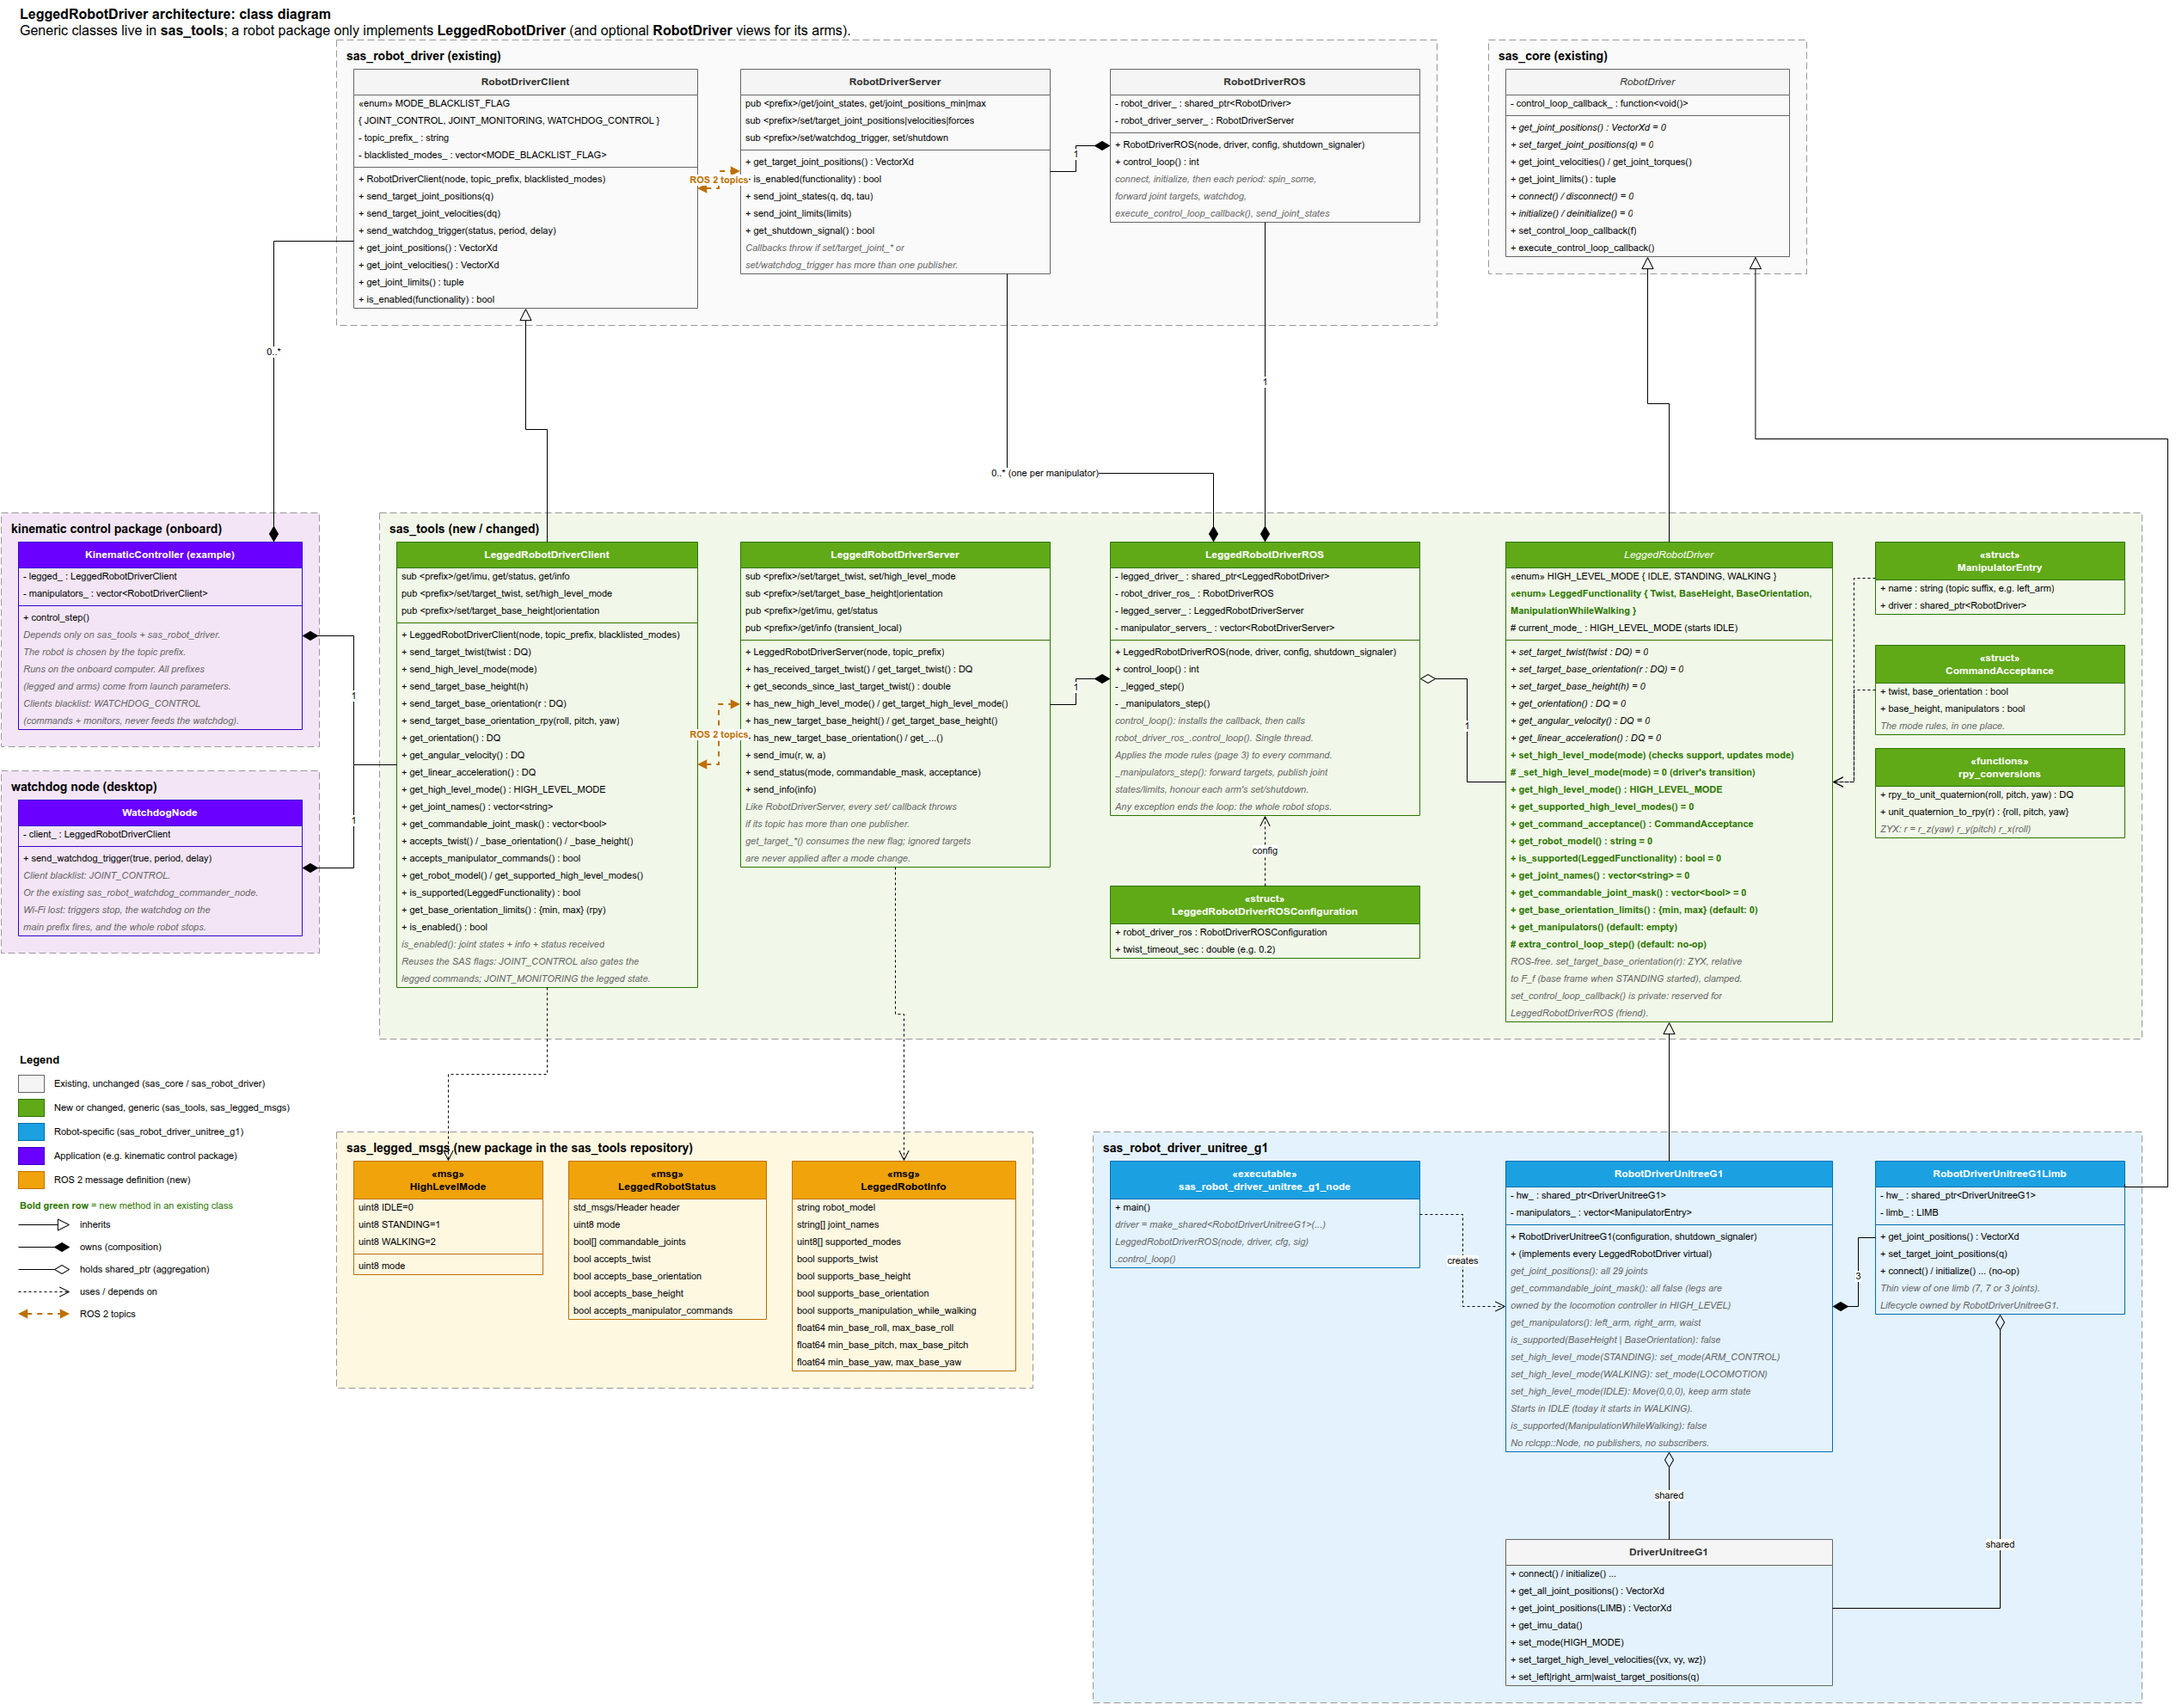
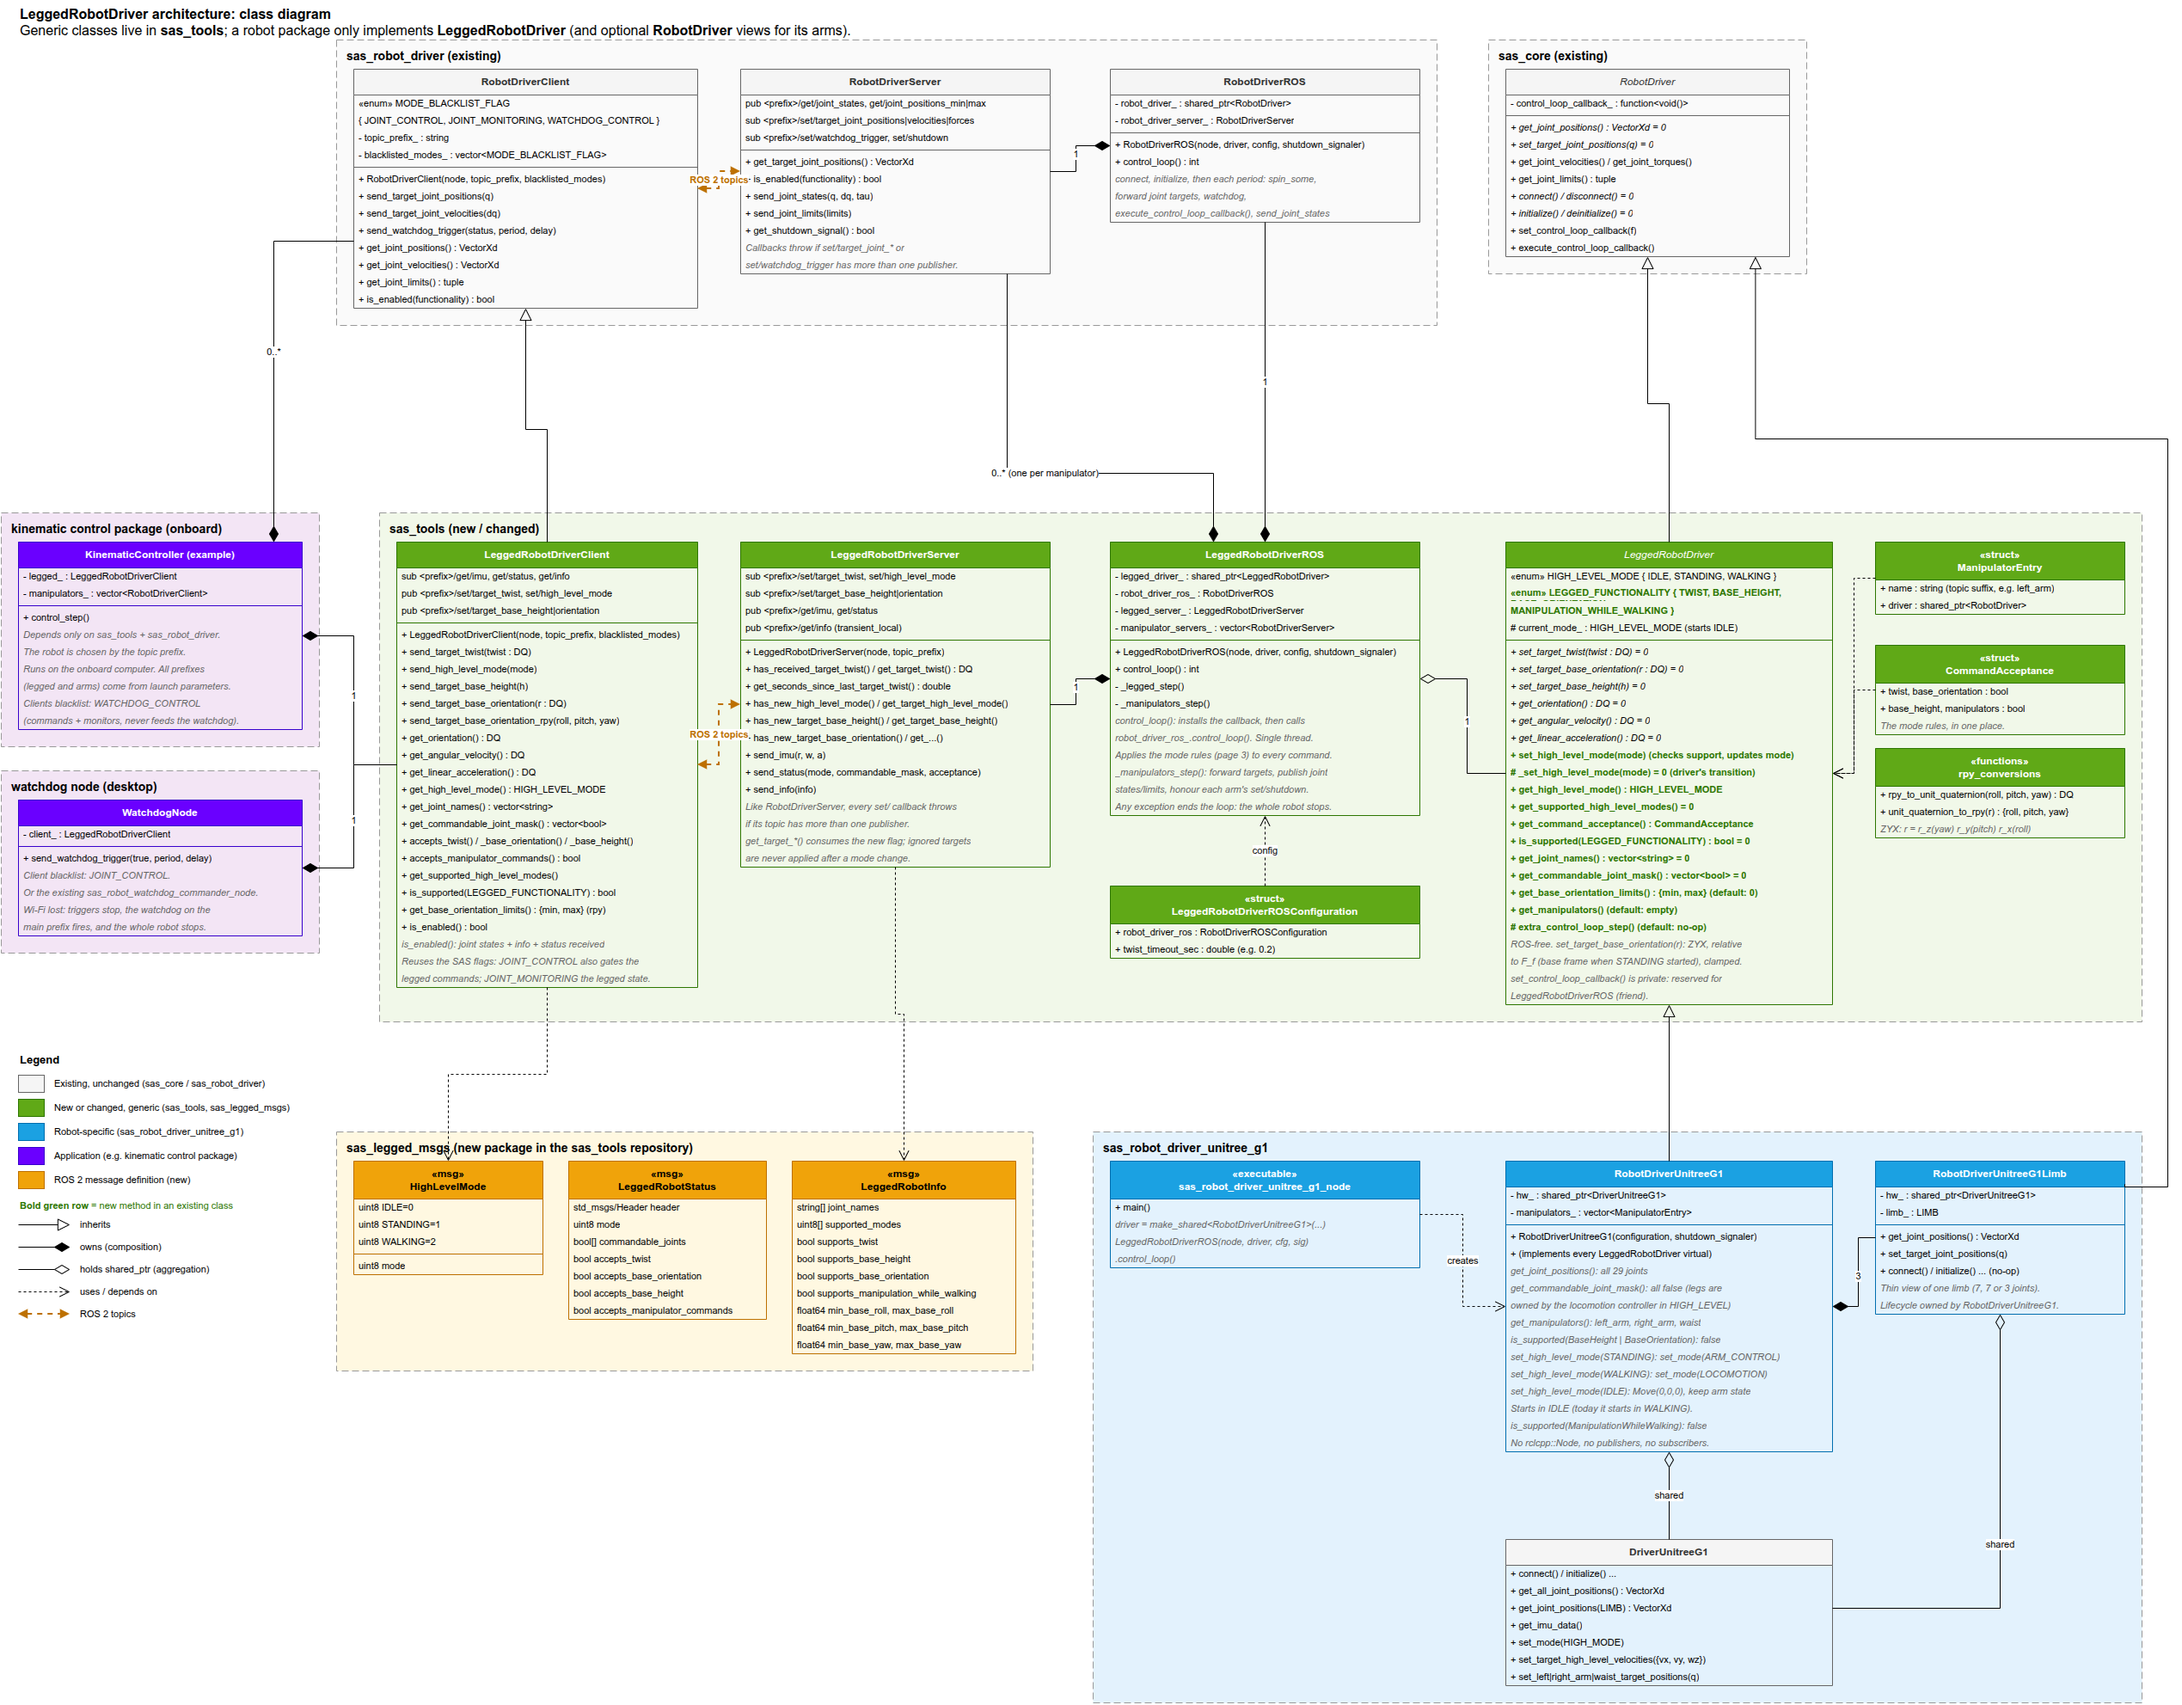
Updated the enum class style

diff --git a/sas_tools/include/sas_tools/LeggedRobotDriver.hpp b/sas_tools/include/sas_tools/LeggedRobotDriver.hpp
@@ -28,7 +28,7 @@ class LeggedRobotDriverROS;
  *   - STANDING: the arms, the base orientation and the base height can be commanded; the
  *     robot cannot walk.
  *   - WALKING: the twist and the base height are accepted; the base orientation is not.
- *     The arms are accepted only if is_supported(LeggedFunctionality::ManipulationWhileWalking).
+ *     The arms are accepted only if is_supported(LEGGED_FUNCTIONALITY::MANIPULATION_WHILE_WALKING).
  *
  * The driver starts in IDLE.
  */
@@ -47,11 +47,11 @@ public:
     /**
      * @brief Enumeration of the optional legged robot functionalities.
      */
-    enum class LeggedFunctionality{
-        Twist=0,
-        BaseHeight,
-        BaseOrientation,
-        ManipulationWhileWalking,
+    enum class LEGGED_FUNCTIONALITY{
+        TWIST=0,
+        BASE_HEIGHT,
+        BASE_ORIENTATION,
+        MANIPULATION_WHILE_WALKING,
     };
 
     /**
@@ -136,7 +136,7 @@ public:
      * @param r The unit quaternion r = r_z(yaw)*r_y(pitch)*r_x(roll) (ZYX roll-pitch-yaw angles),
      *        relative to the frame F_f. F_f is the base frame at the moment the robot entered
      *        STANDING, so r = 1 keeps the pose the robot had when STANDING started.
-     * @note Only called in STANDING, if is_supported(LeggedFunctionality::BaseOrientation), with the
+     * @note Only called in STANDING, if is_supported(LEGGED_FUNCTIONALITY::BASE_ORIENTATION), with the
      *       angles already clamped to get_base_orientation_limits().
      */
     virtual void set_target_base_orientation(const DQ& r) = 0;
@@ -144,7 +144,7 @@ public:
     /**
      * @brief set_target_base_height Sets the desired base height with respect to the ground.
      * @param base_height Target height in meters
-     * @note Only called in STANDING and WALKING, if is_supported(LeggedFunctionality::BaseHeight).
+     * @note Only called in STANDING and WALKING, if is_supported(LEGGED_FUNCTIONALITY::BASE_HEIGHT).
      */
     virtual void set_target_base_height(const double& base_height) = 0;
 
@@ -214,23 +214,40 @@ public:
     // --- Description ---
 
     /**
-     * @brief get_robot_model Returns the robot model, e.g. "Unitree G1".
-     */
-    virtual std::string get_robot_model() const = 0;
-
-    /**
      * @brief is_supported Returns true if the robot supports @p functionality.
      */
-    virtual bool is_supported(const LeggedFunctionality& functionality) const = 0;
+    virtual bool is_supported(const LEGGED_FUNCTIONALITY& functionality) const = 0;
 
     /**
      * @brief get_joint_names Returns the names of every joint of get_joint_positions(), in the same order.
+     *        Published in get/info, so that a client can compare them with its kinematic model.
      */
     virtual std::vector<std::string> get_joint_names() const = 0;
 
     /**
-     * @brief get_commandable_joint_mask Returns, for every joint of get_joint_positions(), whether
-     *        set_target_joint_positions() commands it in the current mode. All false in IDLE.
+     * @brief get_commandable_joint_mask Tells which joints the driver moves when it receives
+     *        set_target_joint_positions() in the current mode.
+     *
+     * get_joint_positions() returns every joint of the robot, but a legged robot usually cannot be
+     * commanded through all of them. For instance, in high-level control the legs of the Unitree G1
+     * are moved by Unitree's own locomotion controller, so a target for a leg joint must not be applied.
+     *
+     * The mask has one entry per joint, in the same order as get_joint_positions() and
+     * get_joint_names():
+     *   - true:  the driver applies the target of this joint.
+     *   - false: the driver ignores the target of this joint (the joint is still reported in
+     *            get_joint_positions()).
+     *
+     * The mask can change with the mode, and every entry is false in IDLE. LeggedRobotDriverROS
+     * publishes it in get/status (commandable_joints), so a client knows which entries of its
+     * target vector take effect.
+     *
+     * @note This mask only applies to the joints of this driver (<prefix>/set/target_joint_positions).
+     *       Manipulators returned by get_manipulators() have their own topics under <prefix>/<name>
+     *       and are not covered by it. On the G1, for example, the mask is all false and the arms
+     *       and the waist are commanded through their manipulator topics instead.
+     *
+     * @return One bool per joint of get_joint_positions().
      */
     virtual std::vector<bool> get_commandable_joint_mask() const = 0;
 
@@ -238,7 +255,7 @@ public:
      * @brief get_base_orientation_limits Returns the limits of set_target_base_orientation(), as ZYX
      *        roll-pitch-yaw angles in radians relative to F_f. The limits do not need to be symmetric.
      *        The default implementation returns zeros, which is correct only for robots that do not
-     *        support LeggedFunctionality::BaseOrientation.
+     *        support LEGGED_FUNCTIONALITY::BASE_ORIENTATION.
      * @return {min, max}, each as {roll, pitch, yaw}, with min <= max for every angle.
      */
     virtual std::tuple<Eigen::Vector3d, Eigen::Vector3d> get_base_orientation_limits() const;

diff --git a/sas_tools/src/sas_legged_robot_driver_ros.cpp b/sas_tools/src/sas_legged_robot_driver_ros.cpp
@@ -100,16 +100,15 @@ void LeggedRobotDriverROS::_control_loop_step()
 void LeggedRobotDriverROS::_send_info()
 {
     sas_legged_msgs::msg::LeggedRobotInfo info;
-    info.robot_model = legged_driver_->get_robot_model();
     info.joint_names = legged_driver_->get_joint_names();
     for (const auto& mode : legged_driver_->get_supported_high_level_modes())
         info.supported_modes.push_back(static_cast<uint8_t>(mode));
 
-    using F = LeggedRobotDriver::LeggedFunctionality;
-    info.supports_twist = legged_driver_->is_supported(F::Twist);
-    info.supports_base_height = legged_driver_->is_supported(F::BaseHeight);
-    info.supports_base_orientation = legged_driver_->is_supported(F::BaseOrientation);
-    info.supports_manipulation_while_walking = legged_driver_->is_supported(F::ManipulationWhileWalking);
+    using F = LeggedRobotDriver::LEGGED_FUNCTIONALITY;
+    info.supports_twist = legged_driver_->is_supported(F::TWIST);
+    info.supports_base_height = legged_driver_->is_supported(F::BASE_HEIGHT);
+    info.supports_base_orientation = legged_driver_->is_supported(F::BASE_ORIENTATION);
+    info.supports_manipulation_while_walking = legged_driver_->is_supported(F::MANIPULATION_WHILE_WALKING);
 
     const auto [min_rpy, max_rpy] = _get_base_orientation_limits();
     info.min_base_roll  = min_rpy(0);
@@ -124,7 +123,7 @@ void LeggedRobotDriverROS::_send_info()
 
 void LeggedRobotDriverROS::_legged_step(const LeggedRobotDriver::CommandAcceptance &acceptance)
 {
-    if (legged_driver_->is_supported(LeggedRobotDriver::LeggedFunctionality::Twist))
+    if (legged_driver_->is_supported(LeggedRobotDriver::LEGGED_FUNCTIONALITY::TWIST))
     {
         const bool twist_is_fresh = legged_server_.has_received_target_twist() &&
                                     legged_server_.get_seconds_since_last_target_twist() <= configuration_.twist_timeout_sec;

diff --git a/sas_tools/src/sas_legged_robot_driver_client.cpp b/sas_tools/src/sas_legged_robot_driver_client.cpp
@@ -188,12 +188,6 @@ bool LeggedRobotDriverClient::accepts_manipulator_commands() const
     return status_.accepts_manipulator_commands;
 }
 
-std::string LeggedRobotDriverClient::get_robot_model() const
-{
-    _check_received(info_received_, "get/info", __FUNCTION__);
-    return info_.robot_model;
-}
-
 std::vector<std::string> LeggedRobotDriverClient::get_joint_names() const
 {
     _check_received(info_received_, "get/info", __FUNCTION__);
@@ -209,15 +203,15 @@ std::vector<LeggedRobotDriver::HIGH_LEVEL_MODE> LeggedRobotDriverClient::get_sup
     return modes;
 }
 
-bool LeggedRobotDriverClient::is_supported(const LeggedRobotDriver::LeggedFunctionality &functionality) const
+bool LeggedRobotDriverClient::is_supported(const LeggedRobotDriver::LEGGED_FUNCTIONALITY &functionality) const
 {
     _check_received(info_received_, "get/info", __FUNCTION__);
     switch (functionality)
     {
-    case LeggedRobotDriver::LeggedFunctionality::Twist:                    return info_.supports_twist;
-    case LeggedRobotDriver::LeggedFunctionality::BaseHeight:               return info_.supports_base_height;
-    case LeggedRobotDriver::LeggedFunctionality::BaseOrientation:          return info_.supports_base_orientation;
-    case LeggedRobotDriver::LeggedFunctionality::ManipulationWhileWalking: return info_.supports_manipulation_while_walking;
+    case LeggedRobotDriver::LEGGED_FUNCTIONALITY::TWIST:                       return info_.supports_twist;
+    case LeggedRobotDriver::LEGGED_FUNCTIONALITY::BASE_HEIGHT:                 return info_.supports_base_height;
+    case LeggedRobotDriver::LEGGED_FUNCTIONALITY::BASE_ORIENTATION:            return info_.supports_base_orientation;
+    case LeggedRobotDriver::LEGGED_FUNCTIONALITY::MANIPULATION_WHILE_WALKING:  return info_.supports_manipulation_while_walking;
     }
     return false;
 }

diff --git a/sas_tools/src/LeggedRobotDriver.cpp b/sas_tools/src/LeggedRobotDriver.cpp
@@ -52,14 +52,14 @@ LeggedRobotDriver::CommandAcceptance LeggedRobotDriver::get_command_acceptance()
     case HIGH_LEVEL_MODE::IDLE:
         break;
     case HIGH_LEVEL_MODE::STANDING:
-        acceptance.base_orientation = is_supported(LeggedFunctionality::BaseOrientation);
-        acceptance.base_height      = is_supported(LeggedFunctionality::BaseHeight);
+        acceptance.base_orientation = is_supported(LEGGED_FUNCTIONALITY::BASE_ORIENTATION);
+        acceptance.base_height      = is_supported(LEGGED_FUNCTIONALITY::BASE_HEIGHT);
         acceptance.manipulators     = true;
         break;
     case HIGH_LEVEL_MODE::WALKING:
-        acceptance.twist            = is_supported(LeggedFunctionality::Twist);
-        acceptance.base_height      = is_supported(LeggedFunctionality::BaseHeight);
-        acceptance.manipulators     = is_supported(LeggedFunctionality::ManipulationWhileWalking);
+        acceptance.twist            = is_supported(LEGGED_FUNCTIONALITY::TWIST);
+        acceptance.base_height      = is_supported(LEGGED_FUNCTIONALITY::BASE_HEIGHT);
+        acceptance.manipulators     = is_supported(LEGGED_FUNCTIONALITY::MANIPULATION_WHILE_WALKING);
         break;
     }
     acceptance.manipulators = acceptance.manipulators && !get_manipulators().empty();

diff --git a/sas_tools/include/sas_tools/sas_legged_robot_driver_client.hpp b/sas_tools/include/sas_tools/sas_legged_robot_driver_client.hpp
@@ -121,10 +121,9 @@ public:
     bool accepts_base_height() const;
     bool accepts_manipulator_commands() const;
 
-    std::string get_robot_model() const;
     std::vector<std::string> get_joint_names() const;
     std::vector<LeggedRobotDriver::HIGH_LEVEL_MODE> get_supported_high_level_modes() const;
-    bool is_supported(const LeggedRobotDriver::LeggedFunctionality& functionality) const;
+    bool is_supported(const LeggedRobotDriver::LEGGED_FUNCTIONALITY& functionality) const;
 
     /**
      * @brief get_base_orientation_limits Returns the limits of the base orientation, as ZYX
